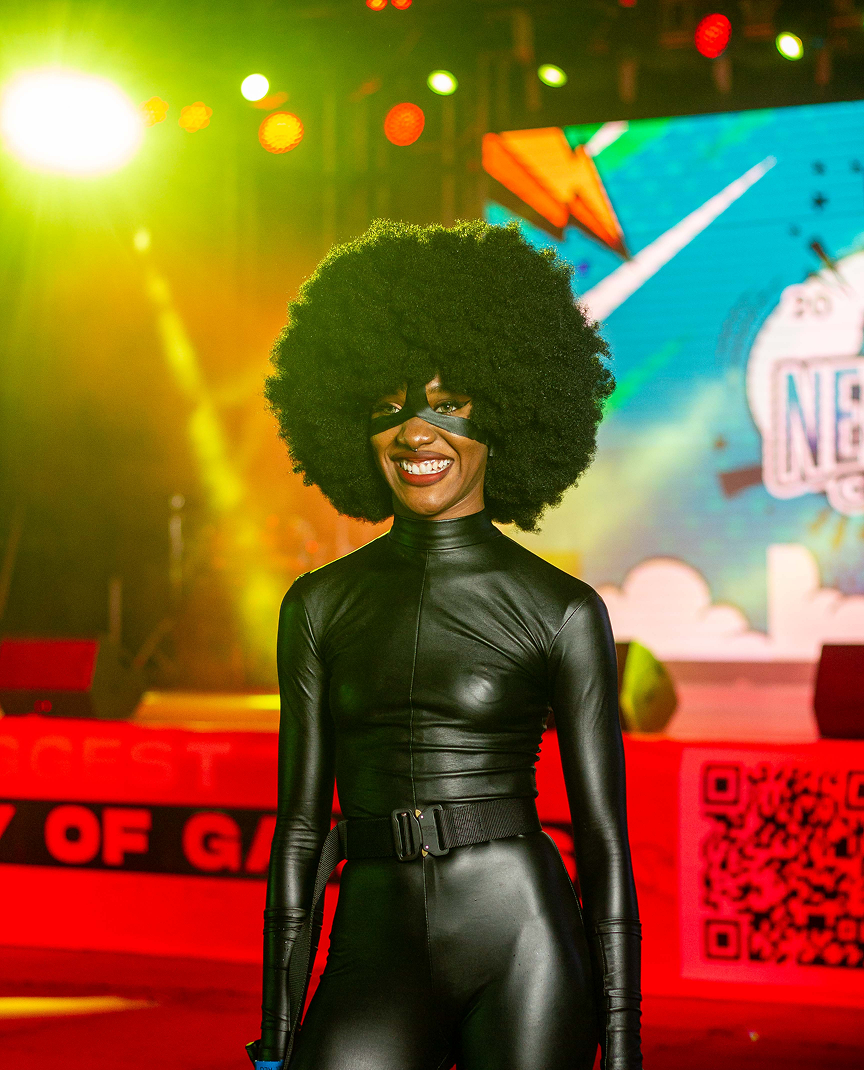
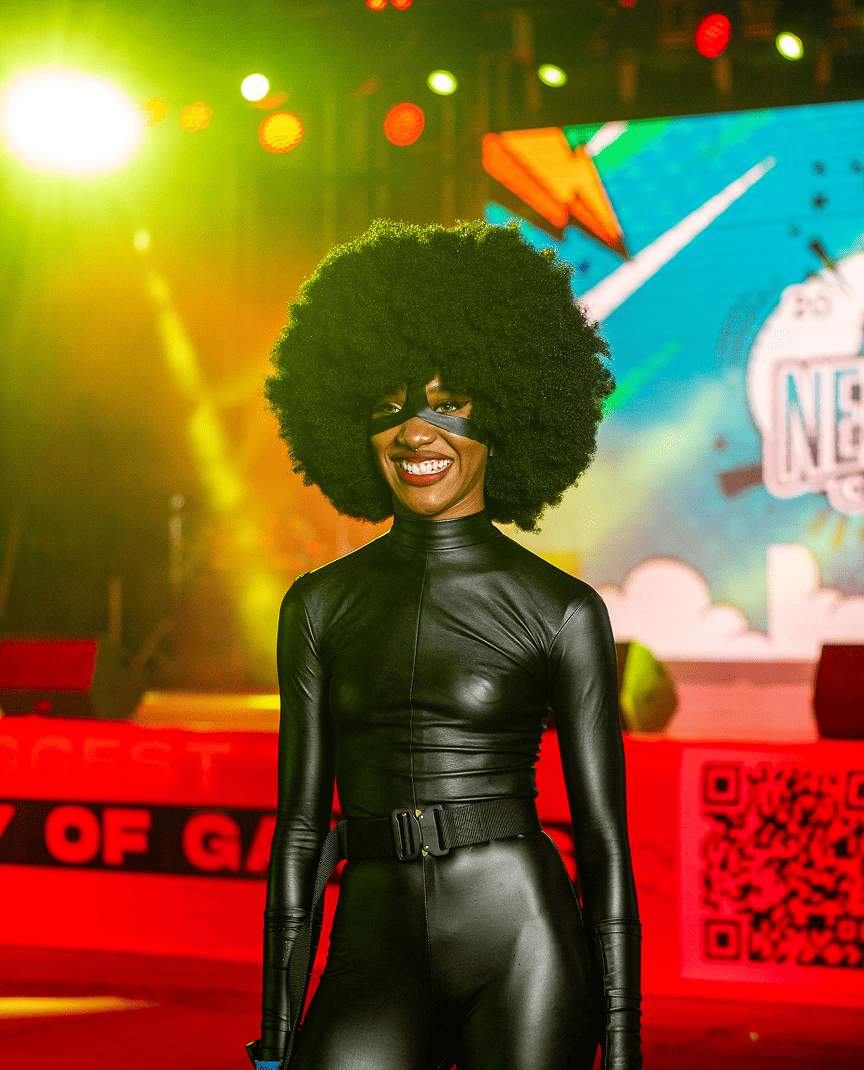
update: reduce image sizes and move some to cloud

diff --git a/components/events/Hero.tsx b/components/events/Hero.tsx
@@ -2,9 +2,6 @@
 import { ChevronLeft, ChevronRight, Pause, Play } from "lucide-react";
 import Image from "next/image";
 import React, { useCallback, useEffect, useState } from "react";
-import ComicCon from "@/assets/events/comic-con.jpg";
-import TechSummit from "@/assets/events/tech-summit.jpg";
-import ArtsFair from "@/assets/events/arts-fair.jpg";
 import Navbar from "../homepage/Navbar";
 import { Button } from "../ui/button";
 import Link from "next/link";
@@ -13,7 +10,7 @@ export default function EventsHero() {
   const slides = [
     {
       id: 1,
-      src: ComicCon,
+      src: "https://res.cloudinary.com/dk4gmufzn/image/upload/v1759857327/comic-con_qzxcug.jpg",
       alt: "Comic con",
       link: "",
       title: "Comic Con 2026",
@@ -22,7 +19,7 @@ export default function EventsHero() {
     },
     {
       id: 2,
-      src: TechSummit,
+      src: "https://res.cloudinary.com/dk4gmufzn/image/upload/v1759857380/tech-summit_hkj9mz.jpg",
       alt: "tech summit",
       link: "",
       title: "Tech Innovation Summit 2026",
@@ -31,7 +28,7 @@ export default function EventsHero() {
     },
     {
       id: 3,
-      src: ArtsFair,
+      src: "https://res.cloudinary.com/dk4gmufzn/image/upload/v1759857408/arts-fair_ira10b.jpg",
       alt: "arts fair",
       link: "",
       title: "Arts & Crafts Fair 2026",

diff --git a/components/events/Stats.tsx b/components/events/Stats.tsx
@@ -57,17 +57,17 @@ export default function EventStats() {
             <EventCard
               title="Game Conventions"
               description="Join fellow gamers for an exciting convention filled with tournaments, demos, and the latest gaming innovations!"
-              image="/events/games.jpg"
+              image="https://res.cloudinary.com/dk4gmufzn/image/upload/v1759858136/games_jsd0dr.jpg"
             />
             <EventCard
               title="Anime Con"
               description="Immerse yourself in anime culture with screenings, merchandise, meet-and-greets, and cosplay competitions!"
-              image="/events/anime-con.jpg"
+              image="https://res.cloudinary.com/dk4gmufzn/image/upload/v1759858133/anime-con_thz247.jpg"
             />
             <EventCard
               title="Cosplays"
               description="Experience a day of creativity and connection at our annual community event!"
-              image="/events/cosplay.jpg"
+              image="https://res.cloudinary.com/dk4gmufzn/image/upload/v1759858132/cosplay_osbpha.jpg"
             />
           </section>
         </section>

diff --git a/components/events/Events.tsx b/components/events/Events.tsx
@@ -1,14 +1,11 @@
 import React from "react";
 import { Button } from "../ui/button";
-import ComicCon from "@/assets/events/comic-con.jpg";
-import TechSummit from "@/assets/events/tech-summit.jpg";
-import ArtsFair from "@/assets/events/arts-fair.jpg";
 import Image from "next/image";
 
 const events = [
   {
     id: 1,
-    src: ComicCon,
+    src: "https://res.cloudinary.com/dk4gmufzn/image/upload/v1759857327/comic-con_qzxcug.jpg",
     alt: "Comic con",
     link: "https://www.straqa.events/nerdworkcomiccon",
     date: "September 6, 2025",
@@ -18,7 +15,7 @@ const events = [
   },
   {
     id: 2,
-    src: TechSummit,
+    src: "https://res.cloudinary.com/dk4gmufzn/image/upload/v1759857380/tech-summit_hkj9mz.jpg",
     alt: "tech summit",
     link: "",
     date: "---",
@@ -28,7 +25,7 @@ const events = [
   },
   {
     id: 3,
-    src: ArtsFair,
+    src: "https://res.cloudinary.com/dk4gmufzn/image/upload/v1759857408/arts-fair_ira10b.jpg",
     alt: "arts fair",
     link: "",
     date: "---",

diff --git a/components/data.ts b/components/data.ts
@@ -3,7 +3,7 @@ import { NFTCollectible, Transaction } from "@/lib/types";
 export const eventsData = [
   {
     id: 1,
-    src: "/events/comic-con.jpg",
+    src: "https://res.cloudinary.com/dk4gmufzn/image/upload/v1759857408/arts-fair_ira10b.jpg",
     alt: "Comic con",
     link: "",
     date: "September 6, 2025",
@@ -13,7 +13,7 @@ export const eventsData = [
   },
   {
     id: 2,
-    src: "/events/tech-summit.jpg",
+    src: "https://res.cloudinary.com/dk4gmufzn/image/upload/v1759857380/tech-summit_hkj9mz.jpg",
     alt: "tech summit",
     link: "",
     date: "May 21, 2025",
@@ -23,7 +23,7 @@ export const eventsData = [
   },
   {
     id: 3,
-    src: "/events/arts-fair.jpg",
+    src: "https://res.cloudinary.com/dk4gmufzn/image/upload/v1759857408/arts-fair_ira10b.jpg",
     alt: "arts fair",
     link: "",
     date: "June 10, 2025",

diff --git a/components/homepage/Nerdwork.tsx b/components/homepage/Nerdwork.tsx
@@ -32,7 +32,7 @@ const features = [
 export default function Nerdwork() {
   return (
     <section data-testid="nerdwork" className="relative min-h-screen w-full">
-      <div className="absolute inset-0 bg-[url('/gallery.png')] bg-cover md:bg-center bg-no-repeat z-0" />
+      <div className="absolute inset-0 bg-[url('https://res.cloudinary.com/dk4gmufzn/image/upload/v1759855758/gallery_altkmp.png')] bg-cover md:bg-center bg-no-repeat z-0" />
       <div className="absolute inset-0 bg-[linear-gradient(180deg,#0D0D0D_0%,rgba(13,13,13,0)_40%,#0D0D0D_66%)] z-10" />
       <div className="relative z-20 text-white max-w-[1130px] min-h-screen mx-auto flex flex-col justify-between max-lg:gap-64 gap-6 font-inter py-5 px-7 text-center">
         <div className="flex flex-col gap-6">

diff --git a/components/nerdwork+/Hero.tsx b/components/nerdwork+/Hero.tsx
@@ -6,7 +6,7 @@ import Link from "next/link";
 export default function ProductHero() {
   return (
     <header className="relative min-h-screen w-full">
-      <div className="absolute inset-0 bg-[url('/nerdwork+/plus-hero.png')] bg-cover bg-center bg-no-repeat z-0" />
+      <div className="absolute inset-0 bg-[url('https://res.cloudinary.com/dk4gmufzn/image/upload/v1759855759/plus-hero_tszrra.png')] bg-cover bg-center bg-no-repeat z-0" />
       <div className="absolute inset-0 bg-[linear-gradient(180deg,#0D0D0D_0%,rgba(13,13,13,0)_30%,#0D0D0D_95%)] z-10" />
       <div className="relative z-20 text-white h-screen max-w-[1440px] mx-auto">
         <Navbar />

diff --git a/components/homepage/Hero.tsx b/components/homepage/Hero.tsx
@@ -4,7 +4,7 @@ import Link from "next/link";
 export default function Hero() {
   return (
     <header className="relative min-h-screen w-full">
-      <div className="absolute inset-0 bg-[url('/hero-bg.png')] bg-cover bg-center bg-no-repeat z-0" />
+      <div className="absolute inset-0 bg-[url('https://res.cloudinary.com/dk4gmufzn/image/upload/v1759854667/hero-bg_daurh6.jpg')] bg-cover bg-center bg-no-repeat z-0" />
       <div className="absolute inset-0 bg-[linear-gradient(180deg,rgba(13,13,13,0)_0%,#0D0D0D_61.75%)] z-10" />
       <div className="relative z-20 text-white h-screen max-w-[1440px] mx-auto">
         <section

diff --git a/next.config.ts b/next.config.ts
@@ -28,6 +28,12 @@ const nextConfig: NextConfig = {
         port: "",
         pathname: "/**",
       },
+      {
+        protocol: "https",
+        hostname: "res.cloudinary.com",
+        port: "",
+        pathname: "/**",
+      },
     ],
   },
 
